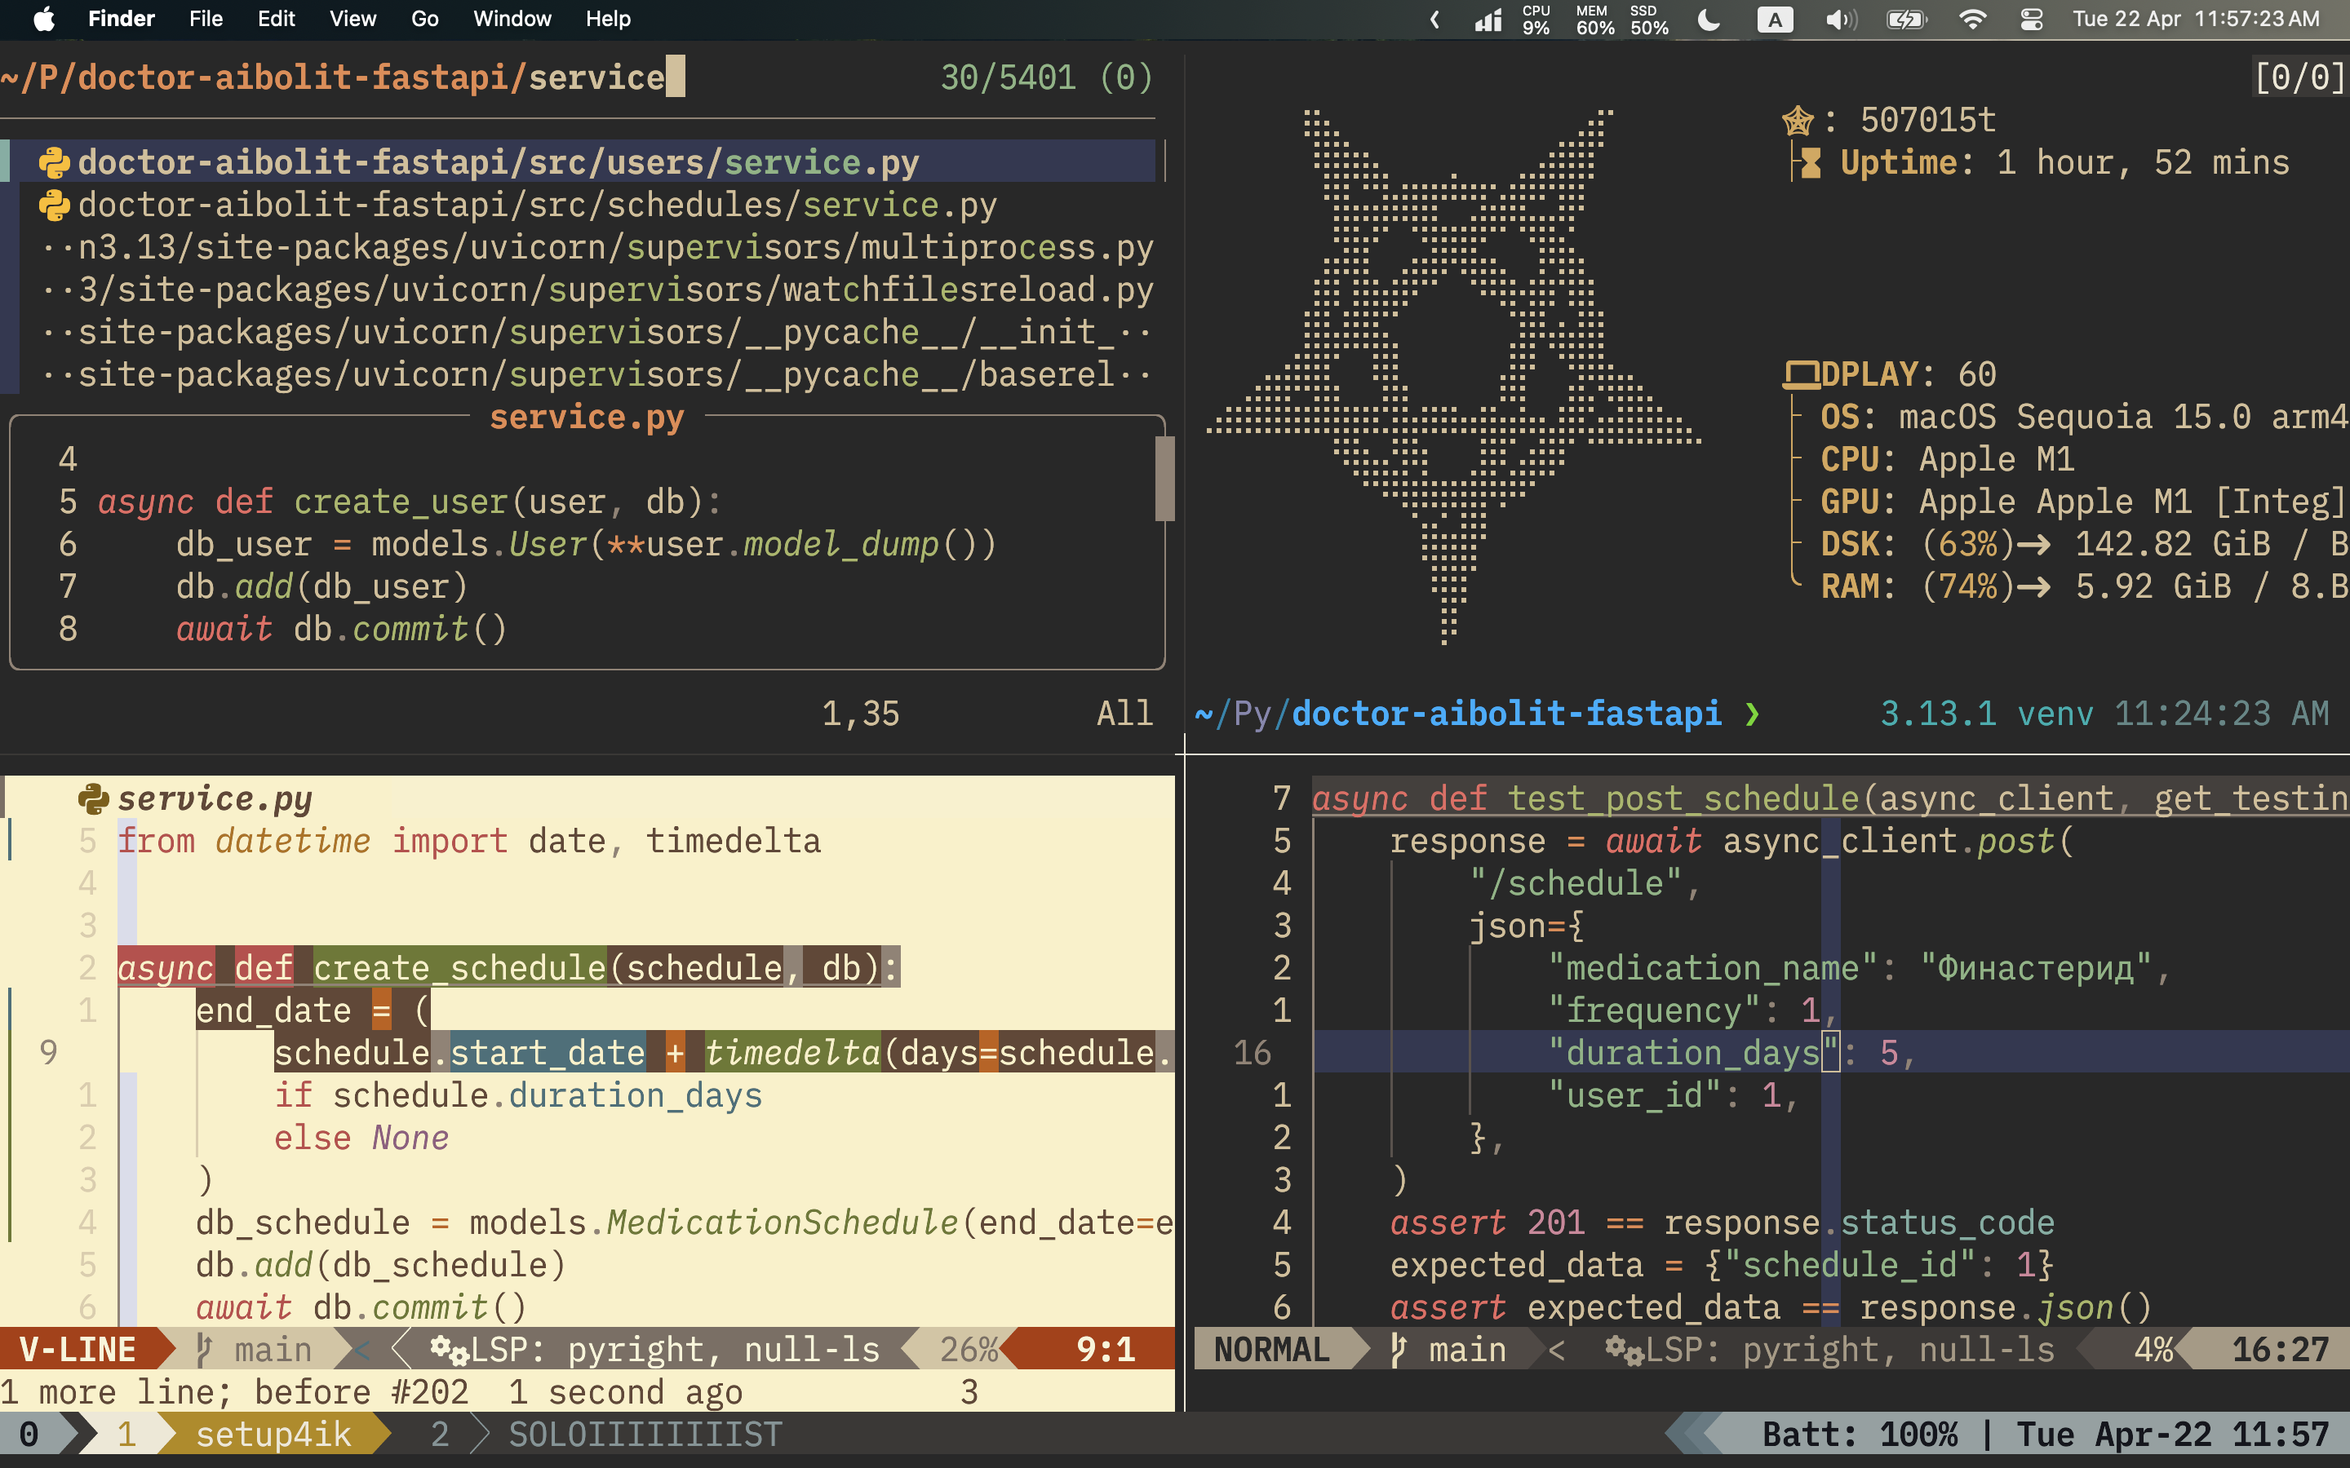
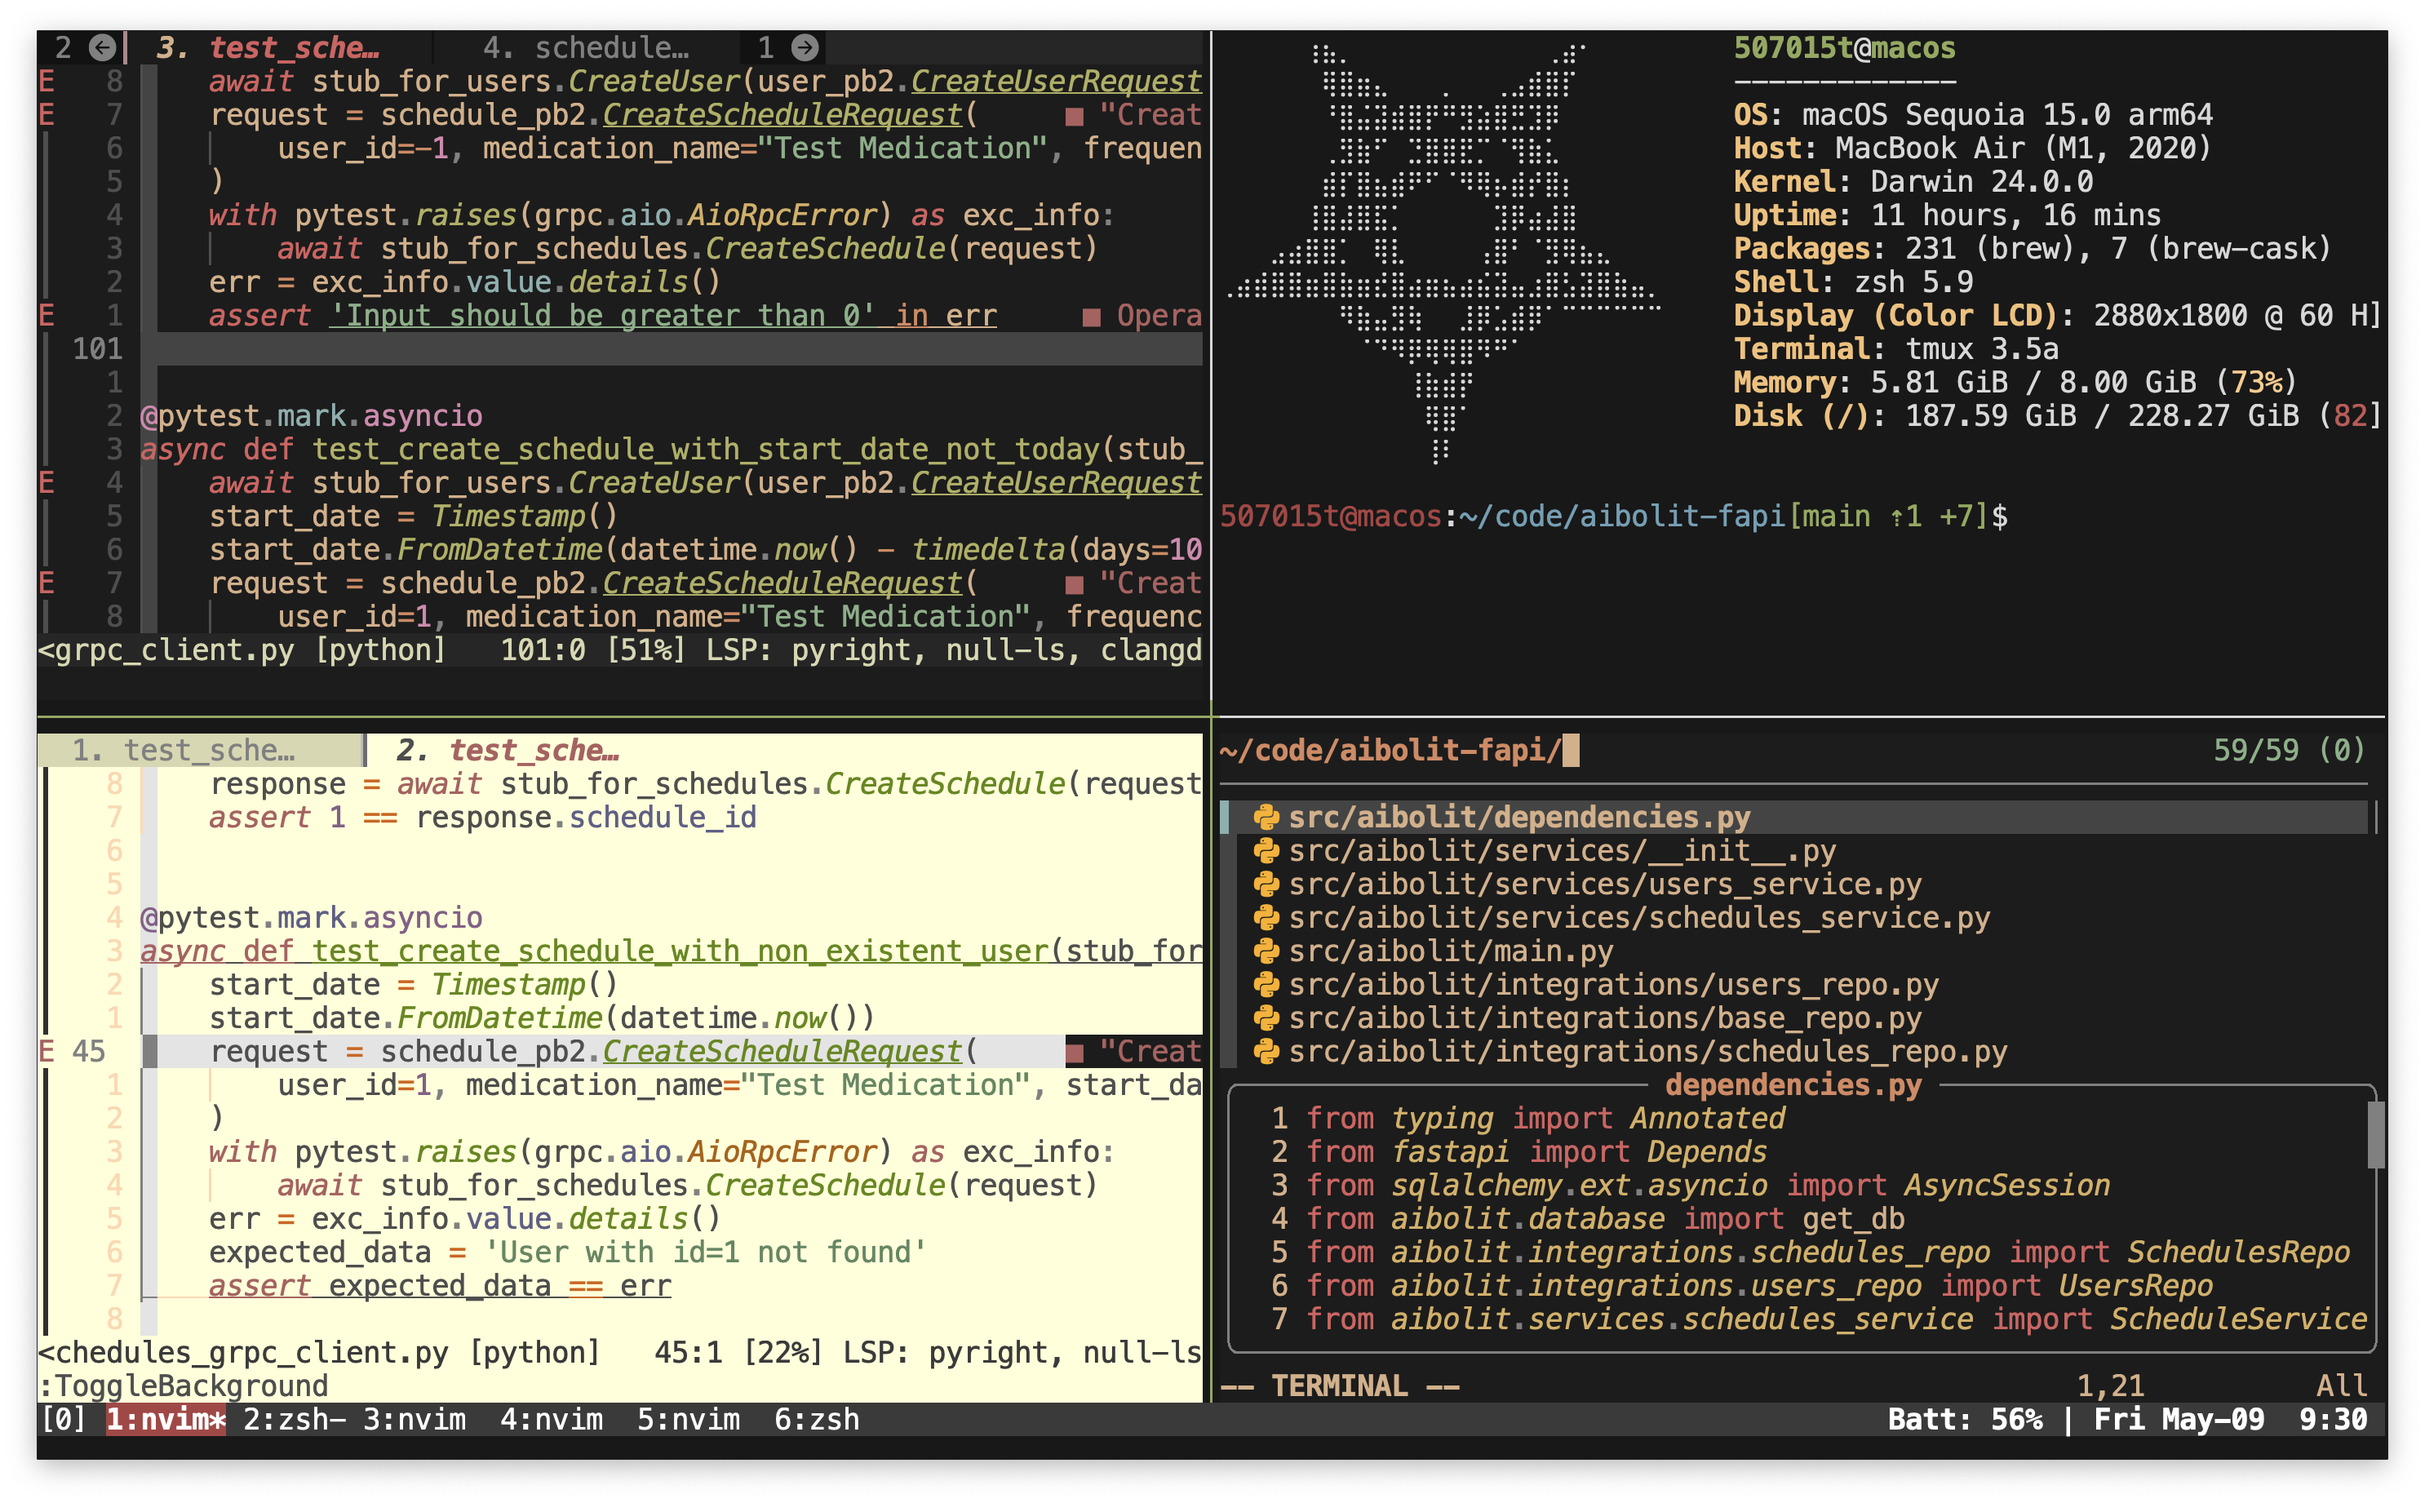
refactor(readme): change photo and some text

diff --git a/README.md b/README.md
@@ -2,17 +2,16 @@
 # 507015t(soloist) dotfiles🎃
 ## Contents
 - Vim (Neovim) config
-- [Kitty](https://sw.kovidgoyal.net/kitty/)(terminal) config
-	Font **PlemolJP Console NF**
+- [Alacritty](https://alacritty.org/) config
+	Font [**Menlo Nerd**](https://github.com/507015T/menlo-nerd-font.git)
 - [Tmux](https://github.com/tmux/tmux) config
 - Zsh config
 - Corne choc (42 keys) config
 - [lf](https://github.com/gokcehan/lf) config
 - [Yabai](https://github.com/koekeishiya/yabai) & [SKHD](https://github.com/koekeishiya/skhd) config
 - [Fastfetch](https://github.com/fastfetch-cli/fastfetch) config 
-- [Powerlevel10k](https://github.com/romkatv/powerlevel10k) config
 ## Clean Setup (MacOS)
 ```bash
-cd && git clone git@github.com:507015T/dopefiles.git && ~/dopefiles/install.sh
+cd && git clone https://github.com/507015T/dopefiles.git && ~/dopefiles/install.sh
 ```
 
